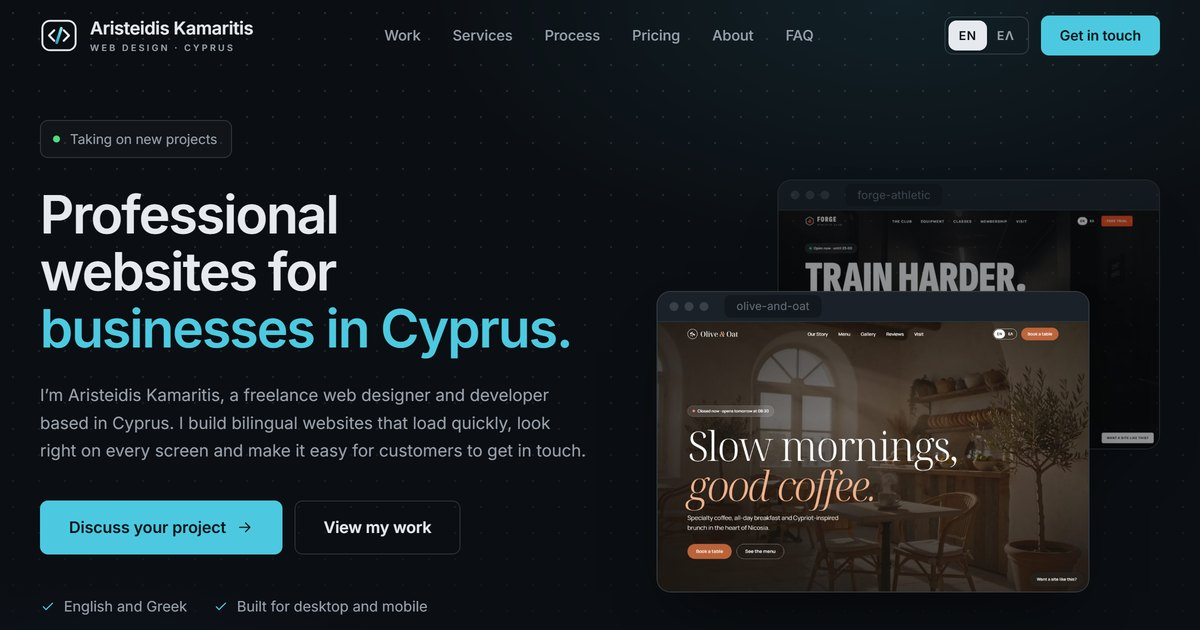
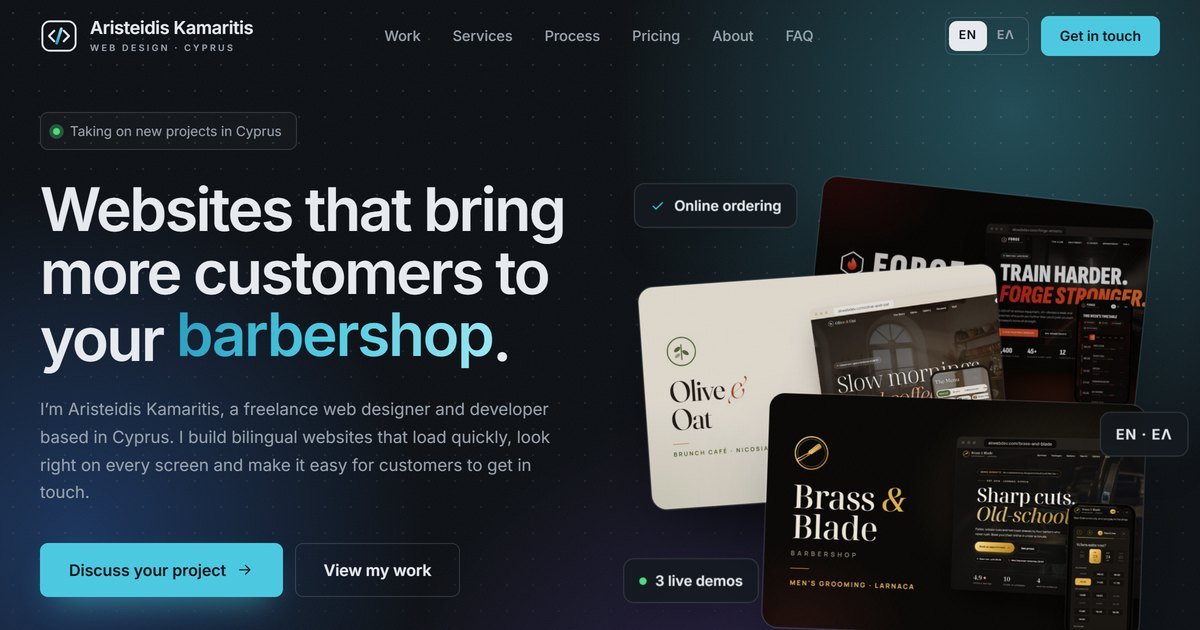
Refresh the link-preview image to the current hero
New og-preview.jpg shows the redesigned hero with all three demos; the
og:image URL gets ?v=2 so LinkedIn and other sites fetch the new picture.

diff --git a/index.html b/index.html
@@ -13,12 +13,13 @@
   <meta property="og:url" content="https://akwebdev.com/">
   <meta property="og:title" content="AK Web Dev | Aristeidis Kamaritis, web design in Cyprus">
   <meta property="og:description" content="Bilingual websites for businesses in Cyprus, designed and built by Aristeidis Kamaritis.">
-  <meta property="og:image" content="https://akwebdev.com/images/og-preview.jpg">
+  <meta property="og:image" content="https://akwebdev.com/images/og-preview.jpg?v=2">
   <meta property="og:image:width" content="1200">
   <meta property="og:image:height" content="630">
-  <meta property="og:image:alt" content="Aristeidis Kamaritis website: professional websites for businesses in Cyprus">
+  <meta property="og:image:alt" content="AK Web Dev homepage: websites that bring more customers to your business, with the café, gym and barbershop demo sites">
   <meta property="og:site_name" content="AK Web Dev">
   <meta name="twitter:card" content="summary_large_image">
+  <meta name="twitter:image" content="https://akwebdev.com/images/og-preview.jpg?v=2">
 
   <link rel="icon" href="images/favicon.svg?v=16" type="image/svg+xml">
   <link rel="icon" href="images/favicon-48.png?v=16" type="image/png" sizes="48x48">
